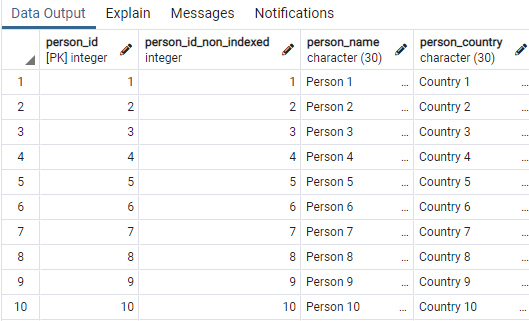
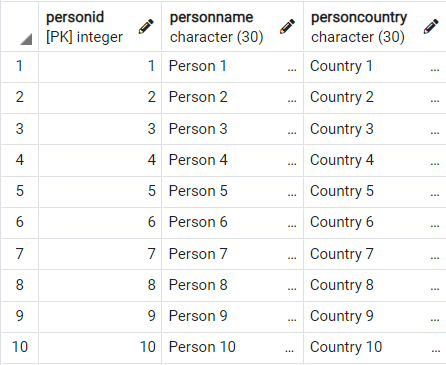
gs

diff --git a/site-flare/Content/started/getting-started-with-gigaspaces-convert-a-program.html b/site-flare/Content/started/getting-started-with-gigaspaces-convert-a-program.html
@@ -15,7 +15,7 @@
                     <p>Part 2 — <MadCap:xref href="getting-started-with-gigaspaces-smartcache-launch-ops-manager.html" class="Part-2-Launch-Ops-Manager">Launch Ops Manager</MadCap:xref> — Run and view the GigaSpaces GUI.</p>
                 </li>
                 <li>
-                    <p>Part 3 — <MadCap:xref href="getting-started-with-gigaspaces-smartcache-port-to-space.html" class="part-3-import-a-database">Import a Database</MadCap:xref> — Bring the Postgres database into SmartCache, the GigaSpaces in-memory grid, and run some SQL operations.</p>
+                    <p>Part 3 — <MadCap:xref href="getting-started-with-gigaspaces-smartcache-import-a-database.html" class="part-3-import-a-database">Import a Database</MadCap:xref> — Bring the Postgres database into SmartCache, the GigaSpaces in-memory grid, and run some SQL operations.</p>
                 </li>
                 <li>
                     <p> <b style="font-style: italic;">Part 4 — Convert a Program</b> (this topic) —  Use the GigaSpaces API to maximize the performance of a sample SmartCache application.</p>
@@ -27,14 +27,13 @@
         </div>
         <p>The following steps will show you how to convert a Java program using native Postgres commands, to a program using GigaSpaces JDBC API. This will result in a significant boost to the program's performance, and will make the code accessible to data in the GigaSpaces in-memory data grid.</p>
         <h1>Converting Code</h1>
-        <p>This example takes a Java program using standard Postgres statements, and converts it to a faster version that runs on the GigaSpaces grid. </p>
         <p>We are doing this for two reasons:</p>
         <ul>
             <li>
                 <p>To demonstrate the relative simplicity of converting an existing Java program to run on the GigaSpaces grid</p>
             </li>
             <li>
-                <p>To enable horizontal/vertical scaling, storage optimization, co-located data and code in a wide area network, and other features of the GigaSpaces environment.</p>
+                <p>To enable <MadCap:xref href="../production/production-Rescaling-your-application-in-GigaSpaces.html" class="horizontal-vertical-scaling">horizontal/vertical scaling</MadCap:xref>, <MadCap:xref href="../dev-java/storage-optimization.htm" class="storage-optimization">storage optimization</MadCap:xref>, <MadCap:xref href="../admin/clustered-vs-non-clustered-proxies.html#writing-new-objects-from-co-located-business-logic" class="co-located-data-and-code">co-located data and code</MadCap:xref>, <MadCap:xref href="../dev-java/multi-site-replication-overview.html" class="multi-region-replication-in-a-wide-area-network">multi-region replication in a wide area network</MadCap:xref>, and other features of the GigaSpaces environment.</p>
             </li>
         </ul>
         <p>The essential code is shown below.</p>
@@ -52,16 +51,13 @@
                     </tr>
                 </thead>
                 <tbody>
-                    <tr>
-                        <td>&#160;</td>
-                        <td>&#160;</td>
-                    </tr>
                     <tr style="vertical-align:top">
                         <td><pre xml:space="preserve">
  Connection conn = DriverManager.getConnection(CONNECTION_STRING,USER,PASSWORD);
  Statement stmt = conn.createStatement();
  ResultSet rs=stmt.executeQuery("SELECT * FROM Persons where personid = 1");
- String PersonName = rs.next().getString("personname");</pre>
+ rs.next();
+ String PersonName = rs.getString("personname");</pre>
                         </td>
                         <td><pre xml:space="preserve">
 GigaSpace gigaSpace = new GigaSpaceConfigurer(new SpaceProxyConfigurer("demo")
@@ -79,11 +75,11 @@ String PersonName = gigaSpace.readById(Persons.class, 1).getPersonname();
         <p><code class="language-java">lookupLocators("localhost")</code> — URL of the GigaSpaces grid. Here we are running a local instance.</p>
         <p><code class="language-java">lookupGroups("xap-16.1.0")).gigaSpace()</code> — <span style="background-color: #ff00ff;">xxxxxxxxxxxxxxxxxxx</span></p>
         <p><code class="language-java">readById</code> — readById is one of the GigaSpaces methods available to access the grid data. It returns a single record property instance (record). </p>
-        <div class="tc-admon-note">
-            <p>You can see a complete list of GigaSpace read methods <span style="background-color: #ff00ff;">here</span>.</p>
-        </div>
         <p><code class="language-java">(Persons.class, 1)</code> — specifies the first property (field) in the Persons object (table)</p>
-        <p><code class="language-java">getPersonname() </code>— run the "getter" method to obtain the personname property</p>
+        <p><code class="language-java">getPersonname() </code>— run the "getter" method to obtain the Personname property</p>
+        <div class="tc-admon-note">
+            <p>See <MadCap:xref href="../dev-java/the-space-operations.html">Operations</MadCap:xref> for more information about the GigaSpaces API.</p>
+        </div>
         <h1>What's Next? </h1>
         <p>More information is available in the <a href="https://docs.gigaspaces.com/latest/landing.html">GigaSpaces documentation</a>, or feel free to <a href="https://www.gigaspaces.com/contact-us">contact us</a> — we're here to help! </p>
     </body>

diff --git a/site-flare/Content/started/getting-started-with-gigaspaces-smartcache-set-environment.html b/site-flare/Content/started/getting-started-with-gigaspaces-smartcache-set-environment.html
@@ -17,10 +17,10 @@
                     <p>Part 2 — <MadCap:xref href="getting-started-with-gigaspaces-smartcache-launch-ops-manager.html" class="Part-2-Launch-Ops-Manager">Launch Ops Manager</MadCap:xref> — Run and view the GigaSpaces GUI.</p>
                 </li>
                 <li>
-                    <p>Part 3 — <MadCap:xref href="getting-started-with-gigaspaces-smartcache-port-to-space.html" class="part-3-import-a-database">Import a Database</MadCap:xref> — Bring the Postgres database into SmartCache, the GigaSpaces in-memory grid, and run some SQL operations.</p>
+                    <p>Part 3 — <MadCap:xref href="getting-started-with-gigaspaces-smartcache-import-a-database.html" class="part-3-import-a-database">Import a Database</MadCap:xref> — Bring the Postgres database into SmartCache, the GigaSpaces in-memory grid, and run some SQL operations.</p>
                 </li>
                 <li>
-                    <p>Part 4 — <MadCap:xref href="getting-started-with-gigaspaces-convert-a-program.html" class="convert-a-program" style="font-style: italic;">Convert a Program</MadCap:xref> — Use the GigaSpaces API to maximize the performance of a sample SmartCache application.</p>
+                    <p>Part 4 — <MadCap:xref href="getting-started-with-gigaspaces-convert-a-program.html" class="convert-a-program" style="font-style: normal;">Convert a Program</MadCap:xref> — Use the GigaSpaces API to maximize the performance of a sample SmartCache application.</p>
                 </li>
             </ul>
         </div>
@@ -64,7 +64,7 @@
             </li>
             <li>
                 <p>
-                    <img src="../Resources/Images/tryme-license.png" />
+                    <img src="../Resources/Images/tryme-license.png" style="width: 957px;height: 68px;" />
                 </p>
                 <div class="tc-admon-note">
                     <p>The trial license is valid for 24 hours.</p>
@@ -79,19 +79,18 @@
             <p>In this example, we will create a Postgres database, populate it with some data, and pull the data into the GigaSpaces grid. We will then perform some SQL operations on the grid data.</p>
         </div>
         <h1>Create a Postgres Database with Some Sample Data</h1>
-        <p>Using the pgAdmin tool, under the default database of <code>postgres</code>, create the <code>Persons </code>table and run the following commands to create 1,000,000 similar records. We will use these records later in SQL queries.</p><pre><code class="language-sql">
+        <p>Using the pgAdmin tool, under the default database of <code>postgres</code>, create the <code>Persons </code>table and run the following commands to create 1,000 similar records. We will use these records later in SQL queries.</p><pre><code class="language-sql">
 drop table Persons;
 CREATE TABLE Persons
    (personId int  PRIMARY KEY,
-    personIdNonIndexed int,
     personName  char(30),
     personCountry char(30));
 delete from Persons;
 do $$
     begin
-        for r in 1..1000000 loop
-            insert into Persons (personId , personIdNonIndexed, personName, personCountry) 
-            VALUES (r,r,concat('Person ', r), concat('Country ',r));
+        for r in 1..1000 loop
+            insert into Persons (personId , personName, personCountry) 
+            VALUES (r ,concat('Person ', r), concat('Country ',r));
         end loop;
     end;
 $$;
@@ -99,7 +98,7 @@ select * from Persons limit(10);
  </code></pre>
         <p>The table schema looks like this:</p>
         <p>
-            <img src="../Resources/Images/gs-with-smartcache-persons-table-1.png" style="width: 331px;height: 215px;" />
+            <img src="../Resources/Images/gs-with-smartcache-persons-table-1.png" style="width: 255px;height: 165px;" />
         </p>
         <p>The table data appears as follows:</p>
         <p>

diff --git a/site-flare/Content/started/getting-started-with-gigaspaces-smartcache-launch-ops-manager.html b/site-flare/Content/started/getting-started-with-gigaspaces-smartcache-launch-ops-manager.html
@@ -15,7 +15,7 @@
                     <p><span style="font-family: 'Webdings'">4</span><b style="font-style: italic;">Part 2 — Launch Ops Manager</b> (this topic) —  Run and view the GigaSpaces GUI.</p>
                 </li>
                 <li>
-                    <p>Part 3 — <MadCap:xref href="getting-started-with-gigaspaces-smartcache-port-to-space.html" class="part-3-import-a-database">Import a Database</MadCap:xref> — Bring the Postgres database into SmartCache, the GigaSpaces in-memory grid, and run some SQL operations.</p>
+                    <p>Part 3 — <MadCap:xref href="getting-started-with-gigaspaces-smartcache-import-a-database.html" class="part-3-import-a-database">Import a Database</MadCap:xref> — Bring the Postgres database into SmartCache, the GigaSpaces in-memory grid, and run some SQL operations.</p>
                 </li>
                 <li>
                     <p>Part 4 — <MadCap:xref href="getting-started-with-gigaspaces-convert-a-program.html" class="convert-a-program" style="font-style: normal;">Convert a Program</MadCap:xref> — Use the GigaSpaces API to maximize the performance of a sample SmartCache application.</p>
@@ -89,7 +89,7 @@
         </div>
         <p>&#160;</p>
         <h1>What's Next?</h1>
-        <p>In <MadCap:xref href="getting-started-with-gigaspaces-smartcache-port-to-space.html" class="part-3-import-a-database">Part 3 — Import a Database</MadCap:xref>, we will connect the Postgres database to the GigaSpaces SmartCache, and run a SQL Select statement to view some data.</p>
+        <p>In <MadCap:xref href="getting-started-with-gigaspaces-smartcache-import-a-database.html" class="part-3-import-a-database">Part 3 — Import a Database</MadCap:xref>, we will connect the Postgres database to the GigaSpaces SmartCache, and run a SQL Select statement to view some data.</p>
         <div class="tc-admon-note">
             <p>Need assistance or further information? Don't hesitate to <a href="https://www.gigaspaces.com/contact-us">contact us</a> — we're here to help!</p>
         </div>

diff --git a/site-flare/Content/started/getting-started-with-gigaspaces-smartcache-import-a-database.html b/site-flare/Content/started/getting-started-with-gigaspaces-smartcache-import-a-database.html
@@ -18,7 +18,7 @@
                     <p><b><span style="font-family: 'Webdings'">4</span> <i>Part 3 — Import a Database</i></b> (this topic) — Bring the Postgres database into SmartCache, the GigaSpaces in-memory grid, and run some SQL operations.</p>
                 </li>
                 <li>
-                    <p>Part 4 — <MadCap:xref href="getting-started-with-gigaspaces-convert-a-program.html" class="convert-a-program" style="font-style: italic; font-weight: bold;">Convert a Program</MadCap:xref> — Use the GigaSpaces API to maximize the performance of a sample SmartCache application.</p>
+                    <p>Part 4 — <MadCap:xref href="getting-started-with-gigaspaces-convert-a-program.html" class="convert-a-program" style="font-style: normal; font-weight: normal;">Convert a Program</MadCap:xref> — Use the GigaSpaces API to maximize the performance of a sample SmartCache application.</p>
                 </li>
             </ul>
             <div class="tc-admon-note">

diff --git a/site-flare/Content/Resources/Stylesheets/tc-styles.css b/site-flare/Content/Resources/Stylesheets/tc-styles.css
@@ -1071,3 +1071,23 @@ MadCap|xref.convert-a-program
 	mc-format: 'Convert a Program';
 }
 
+MadCap|xref.horizontal-vertical-scaling
+{
+	mc-format: 'horizontal/vertical scaling';
+}
+
+MadCap|xref.storage-optimization
+{
+	mc-format: 'storage optimization';
+}
+
+MadCap|xref.co-located-data-and-code
+{
+	mc-format: 'co-located data and code';
+}
+
+MadCap|xref.multi-region-replication-in-a-wide-area-network
+{
+	mc-format: 'multi-region replication in a wide area network';
+}
+
